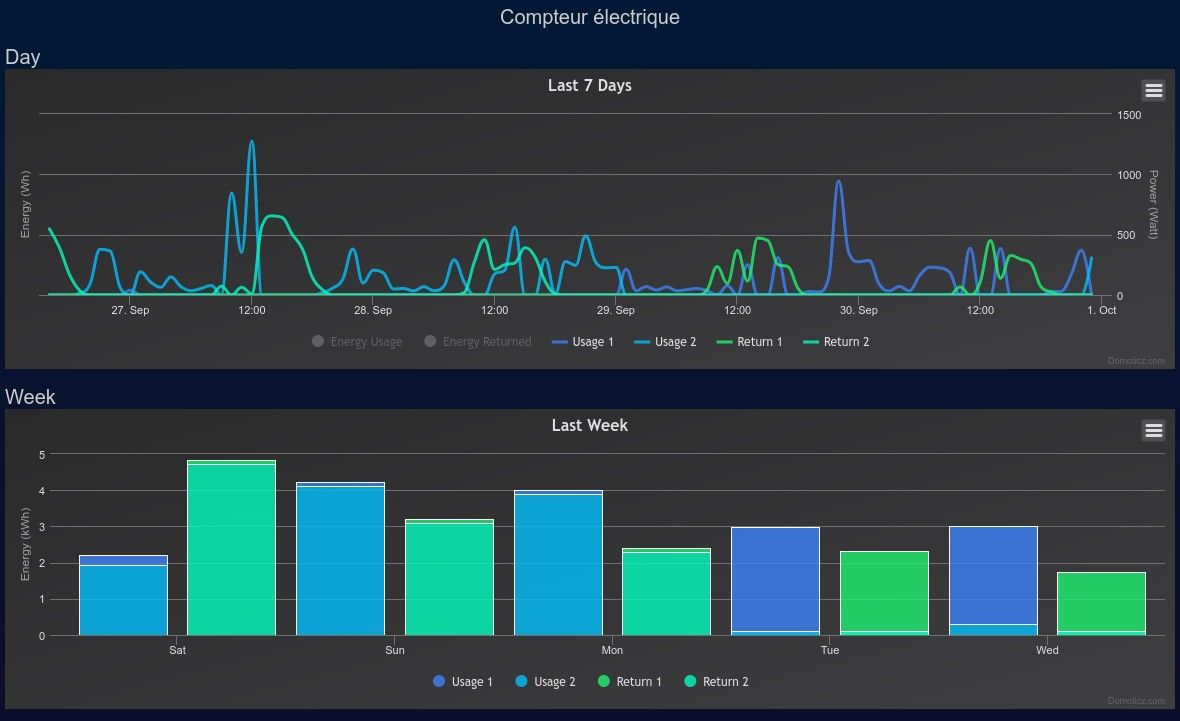
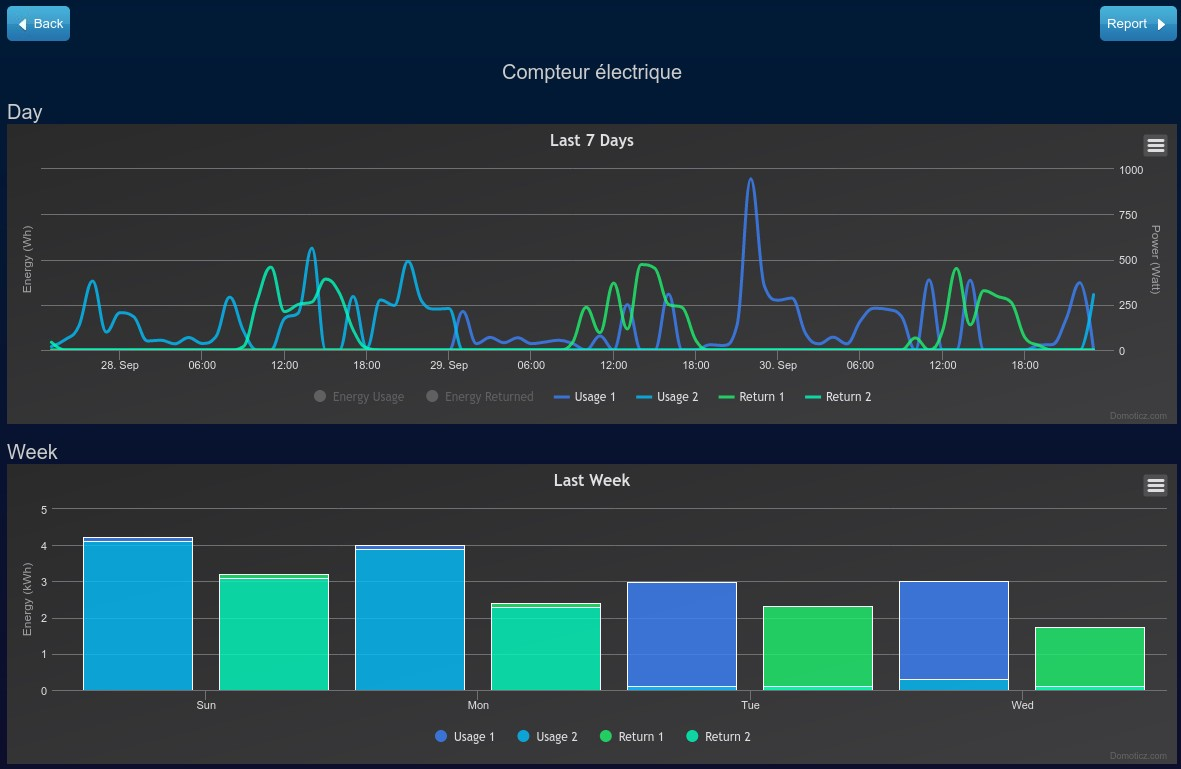
Slowdown connections, do not merge counters if production and consumption are 0

diff --git a/plugin.py b/plugin.py
@@ -22,7 +22,7 @@
 # <http://www.gnu.org/licenses/>.
 #
 """
-<plugin key="linky" name="Linky" author="Barberousse" version="2.2.8" externallink="https://github.com/guillaumezin/DomoticzLinky">
+<plugin key="linky" name="Linky" author="Barberousse" version="2.2.9" externallink="https://github.com/guillaumezin/DomoticzLinky">
     <params>
         <param field="Mode4" label="Heures creuses (vide pour désactiver, cf. readme pour la syntaxe)" width="500px" required="false" default="">
 <!--        <param field="Mode4" label="Heures creuses" width="500px">
@@ -259,7 +259,7 @@ class BasePlugin:
     dHc = None
     # dict with calculation to show on dashboard
     dCalculate = None
-    # date
+    # datetime
     dateNextConnection = None
     # integer: which device to use
     iAlternateDevice = 0
@@ -277,6 +277,8 @@ class BasePlugin:
     dtNextRefresh = None
     # debug file
     fDebug = None
+    # datetime: last data sent
+    dtLastSend = None
     
     def __init__(self):
         self.isStarted = False
@@ -291,6 +293,7 @@ class BasePlugin:
         self.iUsagePointIndex = 0
         self.lUsagePointIndex = []
         self.dUsagePointTimeout = {}
+        self.dtLastSend = datetime(2000, 1, 1)
 
     def myDebug(self, message, bNoLog=False):
         if (not bNoLog) and (self.iDebugLevel > 1):
@@ -337,13 +340,21 @@ class BasePlugin:
         self.sBuffer = data
         self.sConnectionNextStep = self.sConnectionStep
         self.sMemConnectionStep = self.sConnectionStep
-        self.sConnectionStep = "connecting"
         self.iTimeoutCount = 0
         self.iResendCount = 0
-        conn = Domoticz.Connection(Name="HTTPS connection", Transport="TCP/IP", Protocol="HTTPS", Address=address,
-                                   Port=port)
-        conn.Connect()
-        return conn
+        dtNow = datetime.now()
+        # Prevent too quick connections, to not trigger protection mechanism
+        if dtNow > (self.dtLastSend + timedelta(seconds=5)):
+            self.dtLastSend = dtNow
+            self.sConnectionStep = "connecting"
+            conn = Domoticz.Connection(Name="HTTPS connection", Transport="TCP/IP", Protocol="HTTPS", Address=address,
+                                Port=port)
+            conn.Connect()
+            return conn
+        else:
+            self.sConnectionStep = "retry"
+            self.setNextConnectionForLater(self.iInterval)
+            return None
 
     # Connect for login
     def connectAndSendForAuthorize(self, data):
@@ -862,9 +873,21 @@ class BasePlugin:
         bResult = True
         dCalculateCopy = self.dCalculate.copy()
         for sUsagePointConsumptionId in dCalculateCopy:
-            if (not dCalculateCopy[sUsagePointConsumptionId]["production1"]["value_year"]) and (not dCalculateCopy[sUsagePointConsumptionId]["production2"]["value_year"]):
+            # Check if consumption only
+            if (
+                not dCalculateCopy[sUsagePointConsumptionId]["production1"]["value_year"]
+                and not dCalculateCopy[sUsagePointConsumptionId]["production2"]["value_year"]
+                and (dCalculateCopy[sUsagePointConsumptionId]["consumption1"]["value_year"]
+                    or dCalculateCopy[sUsagePointConsumptionId]["consumption2"]["value_year"])
+            ):
                 for sUsagePointProductionId in dCalculateCopy:
-                    if (not dCalculateCopy[sUsagePointProductionId]["consumption1"]["value_year"]) and (not dCalculateCopy[sUsagePointProductionId]["consumption2"]["value_year"]):
+                    # Merge with production only
+                    if (
+                        not dCalculateCopy[sUsagePointProductionId]["consumption1"]["value_year"]
+                        and not dCalculateCopy[sUsagePointProductionId]["consumption2"]["value_year"]
+                        and (dCalculateCopy[sUsagePointProductionId]["production1"]["value_year"]
+                            or dCalculateCopy[sUsagePointProductionId]["production2"]["value_year"])
+                    ):
                         # Do merge
                         sNewUsagePointId = sUsagePointConsumptionId + USAGE_POINT_SEPARATOR + sUsagePointProductionId
 
@@ -1274,11 +1297,10 @@ class BasePlugin:
     # Calculate next complete grab, for tomorrow between 8 and 9 am if tomorrow is true, for next hour otherwise, prevent connection between 10 pm and 8 am
     def setNextConnection(self, bTomorrow):
         bForceTomorrow = False
-        self.iUsagePointIndex = 0
         dtNow = datetime.now()
         if not bTomorrow:
             self.dateNextConnection = dtNow + timedelta(hours=1)
-            if self.dateNextConnection.hour >= 22: 
+            if self.dateNextConnection.hour >= 22:
                 bForceTomorrow = True
         if bTomorrow or bForceTomorrow:
             self.dateNextConnection = dtNow.replace(hour=8, minute=0)
@@ -1308,10 +1330,12 @@ class BasePlugin:
         if bTomorrow:
             minutesRand = round(dtNow.microsecond / 10000) % 60
             self.dateNextConnection = self.dateNextConnection + timedelta(minutes=minutesRand)
+            self.sConnectionStep = "idle"
             self.myError("Serveurs inaccessibles à cette heure, prochaine connexion : " + datetimeToSQLDateTimeString(self.dateNextConnection))
         return bTomorrow
 
     def clearData(self):
+        self.iUsagePointIndex = 0
         self.dData = dict()
         self.dCalculate = dict()
         self.bHasAFail = False

diff --git a/readme.md b/readme.md
@@ -3,7 +3,15 @@
 # Plugin Linky pour Domoticz
 Ceci est un plugin pour [Domoticz](https://domoticz.com), récupérant les données Linky. Les données sont collectées du compte utilisateur [Enedis](http://www.enedis.fr) et stockées dans le log d'un dispositif compteur électrique.
 
+![Vue du dispositif sur le tableau de bord](assets/dashboardfr.jpg)
+
+En cliquant sur le bouton "Log" :
+
 ![Exemple de vue des données](assets/devicelogfr.jpg)
+
+En cliquant sur le bouton "Rapport" :
+
+![Exemple de rapport](assets/reportfr.jpg)
 
 ## Prérequis
 La version de Domoticz doit être 4.11070 ou plus récente. La version de Domoticz doit être 4.11774, 2020.14 ou plus récente pour pouvoir visualiser l'énergie produite et la différentiation jour / nuit.
@@ -14,7 +22,6 @@ Vous devez avoir un compteur Linky, créer un compte utilisateur sur [Enedis](ht
 
 ## Installation
 Copiez plugin.py dans le sous-répertoire plugins/DomoticzLinky de Domoticz ou placez vous dans le sous répertoire plugins de Domoticz and tapez la commande suivante :
-
 ```
 git clone https://github.com/guillaumezin/DomoticzLinky
 ```
@@ -43,6 +50,8 @@ Si après ça, ce n'est toujours pas bon, il faut effacer le dispositif, et rela
 
 Quand on efface le dispositif ou qu'on met à jour de la version 1 à la version 2 du plugin, on perd l'historique, qu'il est possible de retélécharger sur 730 jours max (en modifiant le paramètre "Nombre de jours à récupérer pour les autres vues" du plugin). Lorsque vous avez récupéré l'historique, n'oubliez pas de redescendre le chiffre à 7 par exemple pour ne pas surcharger les serveurs d'Enedis. Le plugin version 2 ne sait pas récupérer l'historique d'un dispositif du plugin version 1, ce ne sont plus tout à fait les mêmes tables dans la base de données.
 
+Si en récupérant les données, le plugin détecte un dispositif avec seulement des données de consommation, et un autre avec seulement des données de production, il créera un nouveau dispositif fusionnant les données pour faciliter la consultation.
+
 ## Configuration
 A la première installation, commencez par vérifier dans les paramètres de Domoticz que "Accepter de nouveaux dispositifs matériels" est activé au moins temporairement (Configuration / Paramètres / Système / Matériel/dispositifs).
 
@@ -55,6 +64,10 @@ Ajoutez le matériel Linky dans l'onglet de configuration Configuration / Matér
 ![Ajout du matériel Linky](assets/hardwaremenufr.jpg)
 
 ![Ajout du matériel Linky](assets/addhardwarefr.jpg)
+
+Vous pouvez configurer les tarifs heures pleines (Coûts T1 pour la consommation et R1 pour la production) et heures creuses (Coûts T2 pour la consommation et R2 pour la production) dans le menu Configuration / Paramètres / Sondes/Compteurs. Dans ce menu, vérifiez que "Electricité" est bien mis à 1000.
+
+![Configuration du coût horaire](assets/costsettingfr.jpg)
 
 ### Obtention du consentement
 Commencez par surveiller votre Configuration / Log. Aux premières connexions, le plugin doit vous donner l'adresse Web https://opensrcdev.alwaysdata.net/domoticzlinkyconnect/device à consulter et un code à y copier/coller pour obtenir le consentement du partage de données d'Enedis vers le plugin. Si vous ne répondez pas dans les minutes qui suivent, le plugin est arrêté. Pour relancer le processus, rendez-vous dans Configuration / Matériel, cliquez sur le plugin et sur Modifier.
@@ -123,6 +136,8 @@ Vous pouvez choisir le nombre à afficher sur le tableau de bord :
 ### Nombre de jours à récupérer
 * Vous pouvez choisir le nombre de jours à récupérer pour la vue par heures. Vous pouvez mettre le nombre de jours à récupérer à 0 pour désactiver la récupération de données pour la vue par heures. Notez que Domoticz effacera chaque jour une partie des données de la vue par heures en se basant sur le paramètre Log des capteurs qui se trouve dans Configuration / Paramètres / Historique des logs, vous pouvez augmenter ce paramètre pour voir jusqu'à 7 jours d'historique
 
+![Log history setting](assets/loghistoryfr.jpg)
+
 * Vous pouvez choisir le nombre de jours à récupérer pour les autres vues. En dehors des premières synchronisations, il est **très fortement recommandé** de garder le nombre de jours à récupérer pour les autres vues inférieur ou égal à 7 pour ne pas surcharger les serveurs d'Enedis. Une fois les données récupérées, elles sont stockées et persistent dans la base de données de Domoticz
 
 ## Auteurs
@@ -148,7 +163,15 @@ Ce projet est sous licence AGPLv3 - cf. fichier [LICENSE](LICENSE) pour plus de 
 # Linky plugin for Domoticz
 This is a plugin for [Domoticz](https://domoticz.com), to grab data from french smartgrid meter Linky. It grabs data from [Enedis](http://www.enedis.fr) user account and store them inside a counter device log.
 
+![Device on dashboard](assets/dashboarden.jpg)
+
+When clicking on "Log" button:
+
 ![Example of data view](assets/devicelogen.jpg)
+
+When clicking on "Report" button:
+
+![Exemple de rapport](assets/reporten.jpg)
 
 ## Prerequisites
 Domoticz version must be at least 4.11070. Domoticz version must be at least 4.11774 or 2020.1 to see energy production and day / night tariff differences.
@@ -159,7 +182,6 @@ You need to have a Linky meter, create a user account on [Enedis](http://www.ene
 
 ## Installing
 Copy the plugin.py to domoticz directory/plugins/DomoticzLinky or change directory to domoticz directory/plugins and issue the following command:
-
 ```
 git clone https://github.com/guillaumezin/DomoticzLinky
 ```
@@ -188,6 +210,8 @@ If after that, it is still not good, you have to delete the device, and restart 
 
 When the device is deleted or update the plugin from version 1 to version 2, the history is lost, which can be redownloaded over 730 days max (by modifying the parameter "Nombre de jours à récupérer pour les autres vues" of the plugin). When you have retrieved the history, do not forget to lower the number to 7, for example, so as not to overload the Enedis servers. The V2 plugin version 2 does not know how to retrieve the history of a device from the plugin version 1, the tables in the database are quite different.
 
+If while retrieving the data, the plugin detects a device with only consumption data, and another with only production data, it will create a new device merging the data for easy consultation.
+
 ## Configuration
 On first install, check that "Accept new Hardware Devices" is enabled, at least temporaly (in Setup / Settings / System / Hardware/Devices).
 
@@ -200,6 +224,10 @@ Add the Linky hardware in Domoticz Setup / Hardware configuration tab.
 ![Ajout du matériel Linky](assets/hardwaremenuen.jpg)
 
 ![Add Linky hardware](assets/addhardwareen.jpg)
+
+You can configure the peak hour tariffs (Costs T1 for consumption and R1 for production) and off-peak hours (Costs T2 for consumption and R2 for production) in the Setup / Setup / Meters/Counters menu. In this menu, check that "Energy" is set to 1000.
+
+![Set hour tariffs](assets/costsettingen.jpg)
 
 ### Give consent
 To start, go to Setup / Log. At first connections, the plugin shall give you the web address https://opensrcdev.alwaysdata.net/domoticzlinkyconnect/device to browse and a code to copy/paste to give Enedis authorizations to share your data with the plugin. If you don't answer quickly, the plugin will stop. To relaunch the process, go to Setup / Hardware, click on the plugin then on Update.
@@ -267,6 +295,8 @@ You can choose the number you want to see on the dashboard:
 
 ### Data collect
 * You can choose the number of days to collect data for the short log (day). You can set the number of days to collect data for the short log (day) to 0 to disable data grabbing for this view. Note that Domoticz will clean every day data in the short log, based on the Short Log Sensors value the in Setup / Settings / Log History, you can increase the value there to get up to 7 days of short log history.
+
+![Log history setting](assets/loghistoryen.jpg)
 
 * You can choose the number of days to collect data for week/month/year log. After the first synchronizations, it is **highy recommended** to keep the number of days to recover for the other views less than or equal to 7 so as not to overload the Enedis servers. After getting data, they are stored and persist in Domoticz database
 

diff --git a/.github/ISSUE_TEMPLATE.md b/.github/ISSUE_TEMPLATE.md
@@ -1,14 +1,12 @@
-* Avant de poster un message ici, veuillez toujours vérifiez que vos données sont visibles sur le site d'Enedis, dans la vue par jours et dans la vue par heures. Si ça ne fonctionne pas avec le site d'Enedis, ça ne fonctionnera pas non plus avec le plugin. N'oubliez pas de demander la collecte des données par demi-heure, c'est un pré-requis pour que le plugin fonctionne, une fois la demande faite, il faut attendre le lendemain pour qu'elle soit effective.
+* Avant de poster un message ici, veuillez toujours vérifiez que vos données sont visibles sur le site d'Enedis, dans la vue par jours et dans la vue par heures. Si ça ne fonctionne pas avec le site d'Enedis, ça ne fonctionnera pas non plus avec le plugin. N'oubliez pas de demander la collecte des données, c'est expliqué dans le readme.
 
 * La version de Domoticz doit être 3.9517 ou plus récente, mais la vue par heures ne fonctionnera pas avec la release version 4.9700 (vous aurez besoin d'une version release ou beta plus récente si vous avez déjà installé la version 4.9700 pour que la vue par heures fonctionne). La version de Domoticz doit être 4.11774, 2020.14 ou plus récente pour pouvoir visualiser l'énergie produite et la différentiation jour / nuit.
 
-* Pensez à donner les droits en lecture et exécution au plugin si vous êtes sous Linux, c'est expliqué dans le readme
-
-* Si vous exécutez pour la première fois le plugin tard le soir, ou si vous redémarrez Domoticz tard, le plugin essaiera d'emblée de récupérer des données, mais n'y parviendra peut-être pas. Enedis ferme souvent l'accès aux données à partir de quelque chose comme 23h00. Vous aurez donc des messages d'erreur jusqu'à disponibilité des données. Ensuite, le plugin récupérera les données au matin puis toutes les 24 heures environ, donc les erreurs ne devraient pas persister.
+* Pensez à donner les droits en lecture et exécution au plugin si vous êtes sous Linux, c'est expliqué dans le readme.
 
 * L'erreur "async read" se produit souvent à la première exécution du plugin et est liée à un bug de Domoticz. Cette erreur ne doit pas persister.
 
-* Pour tout problème, veuillez activer le mode Debug en le mettant sur "Oui" ou "Avancé", et postez tous les messages qui concernent le plugin, y compris les lignes indiquant la version du plugin et les paramètres configurés
+* Pour tout problème, veuillez activer le mode Debug en le mettant sur "Simple" ou "Avancé", et postez tous les messages qui concernent le plugin, y compris les lignes indiquant la version du plugin et les paramètres configurés, ou encore mieux, envoyez le fichier log produit par le plugin (son chemin est donné dans l'onglet "Status" des logs Domoticz) au mail indiqué sur le profil https://github.com/guillaumezin.
 
 * Veuillez indiquer votre version de 
   * Domoticz
@@ -17,18 +15,15 @@
 
 ----------------------------------------------------------------
 
-* Before posting a message here, please always check that your data are visible on the Enedis website, in the days view and in the hours view. If it does not work with the Enedis website, it will not work with the plugin either. Don't forget to allow hours data collect, it's a prerequisite for the plugin to work, after allowing it, data may be available the day after only.
+* Before posting a message here, please always check that your data are visible on the Enedis website, in the days view and in the hours view. If it does not work with the Enedis website, it will not work with the plugin either. Don't forget to allow hours data collect, it's explained in the readme.
 
 * Domoticz version must be at least 3.9517, but short log view (hours view) will fail on release version 4.9700 (you'll need a more recent release or beta version if you already installed the version 4.9700 to get short log view working). Domoticz version must be at least 4.11774 or 2020.1 to see energy production and day / night tariff differences.
 
-* Consider giving the read and execute rights to the plugin if you are on Linux, it is explained in the readme
-
-* If you are running the plugin for the first time late at night, or if you restart Domoticz late, the plugin will try to recover data immediately, but may not succeed. Enedis often closes data access starting something like 11pm. You will therefore have error messages until data availability. Then, the plugin will grab the data in the morning then every 24 hours or so, so errors should not persist.
+* Consider giving the read and execute rights to the plugin if you are on Linux, it is explained in the readme.
 
 * The "async read" error often occurs the first time the plugin is executed and is due to a Domoticz bug. This error should not persist.
 
-* For any problem, please enable the Debug mode by putting it on "Oui" or "Avancé", and post all the messages concerning the plugin, including the lines indicating the
-version of the plugin and the configured parameters
+* For any problem, please enable the Debug mode by putting it on "Simple" or "Avancé", and post all the messages concerning the plugin, including the lines indicating the version of the plugin and the configured parameters, or even better, send the log file produced by the plugin (its path is given in the "Status" tab of the Domoticz logs) to the email indicated on the profile https://github.com/guillaumezin.
 
 * Please indicate your version of
   * Domoticz
